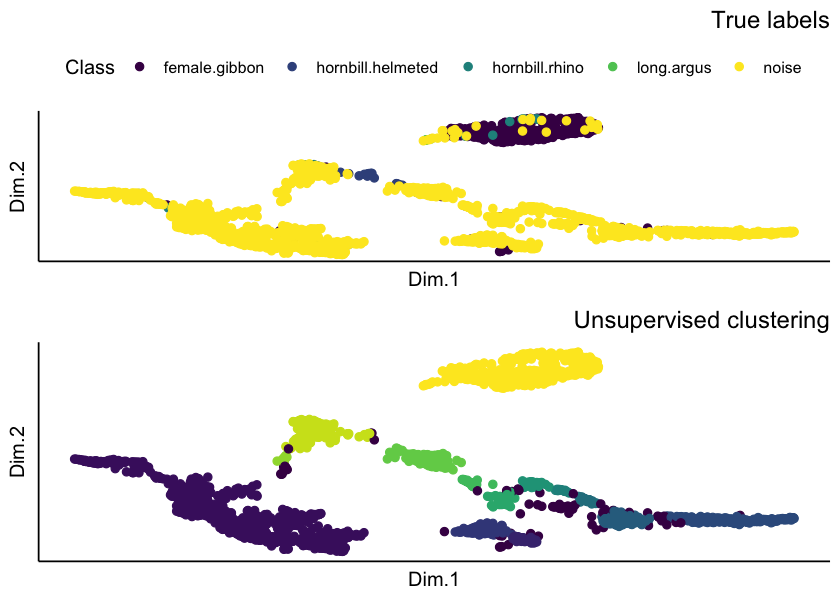
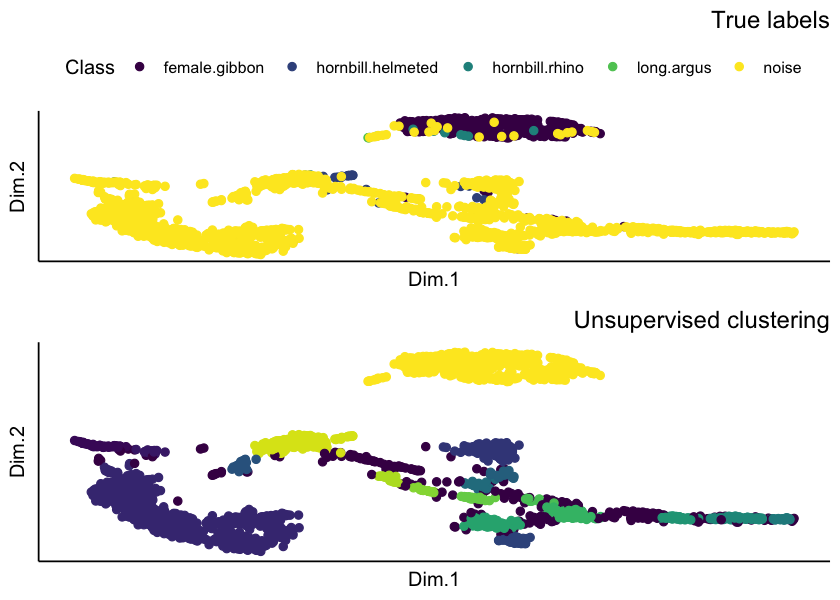
Update tests and README.

diff --git a/README.md b/README.md
@@ -213,7 +213,7 @@ Here we can see the Normalize Mutual Information score
 
 ``` r
 result$NMI
-#> [1] 0.7317898
+#> [1] 0.7346602
 ```
 
 The confusion matrix results when we use ‘hdbscan’ to match the target
@@ -222,25 +222,29 @@ class to the cluster with the largest number of observations
 ``` r
 result$ConfusionMatrix
 #>          Sensitivity          Specificity       Pos Pred Value 
-#>            0.9150198            0.9822222            0.9204771 
+#>            0.9130435            0.9835556            0.9258517 
 #>       Neg Pred Value            Precision               Recall 
-#>            0.9809143            0.9204771            0.9150198 
+#>            0.9805051            0.9258517            0.9130435 
 #>                   F1           Prevalence       Detection Rate 
-#>            0.9177403            0.1835994            0.1679971 
+#>            0.9194030            0.1835994            0.1676343 
 #> Detection Prevalence    Balanced Accuracy 
-#>            0.1825109            0.9486210
+#>            0.1810595            0.9482995
 ```
 
 ## We can then deploy the model over longer sound files.
 
 ``` r
   
+   library(gibbonNetR)
+   
+    # Load data
    data("TempBinWav")
 
-   dir.create(paste(tempdir(),'/MultiDir/Wav/'),recursive = T, showWarnings = FALSE)
+   # Save in temp directory
+   dir.create(paste(tempdir(),'/MultiDir/Wav/',sep=''),recursive = T, showWarnings = FALSE)
 
    # Write to temp directory
-   writeWave(TempBinWav,filename = paste(tempdir(),'/MultiDir/Wav/','TempBinWav.wav'))
+   writeWave(TempBinWav,filename = paste(tempdir(),'/MultiDir/Wav/','TempBinWav.wav',sep=''))
 
    # Find model path
    # Set model directory
@@ -258,7 +262,7 @@ result$ConfusionMatrix
      output_folder_wav = paste(tempdir(),'/MultiDir/Results/Wavs/',sep=''),
      detect_pattern=NA,
      top_model_path = ModelPath,
-     path_to_files = paste(tempdir(),'/MultiDir/Wav/'),
+     path_to_files = paste(tempdir(),'/MultiDir/Wav/',sep=''),
      downsample_rate = 'NA',
      save_wav = F,
      class_names = c('female.gibbon','hornbill.helmeted','hornbill.rhino','long.argus','noise'),
@@ -268,11 +272,6 @@ result$ConfusionMatrix
      threshold = .25,
      max_freq_khz = 2
    )
-
-   ListImages <-  list.files(paste(tempdir(),'/MultiDir/Results/Images/',sep=''),
-                                 full.names = T)
-   
-    print(basename(ListImages[1]))
    
 ```
 
